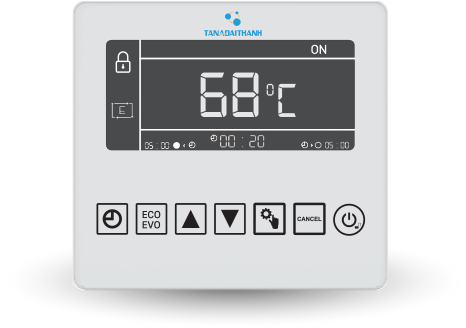
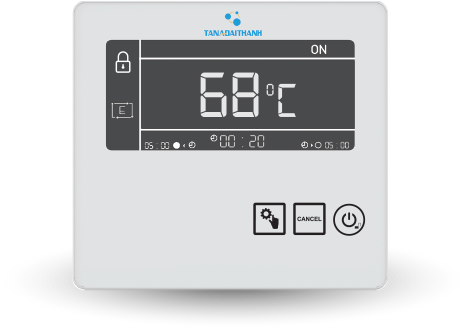
1

Changed region(s): [[0.1803, 0.6098, 0.5408, 0.7317]]

diff --git a/index.html b/index.html
@@ -56,8 +56,9 @@
         <div class="container">
             <div class="row">
                 <div class="col-md-8 mt-5">
-                    <iframe src="https://drive.google.com/file/d/1eCEJB5FRBTQ2DGEPlhd41ZFCHFFKFObW/preview" width="100%"
-                        height="390"></iframe>
+                    <iframe width="100%" height="390" src="https://www.youtube.com/embed/7InDmxiJ9XI" frameborder="0"
+                        allow="accelerometer; autoplay; clipboard-write; encrypted-media; gyroscope; picture-in-picture"
+                        allowfullscreen></iframe>
                 </div>
                 <div class="col-md-4 mt-5">
                     <h2>GIỚI THIỆU CHUNG</h2>
@@ -67,7 +68,7 @@
                     <p> Nhằm củng cố niềm tin của người dùng và không ngừng nâng cao
                         chất lượng sản phẩm, năm 2020, Tập đoàn Tân Á Đại Thành đã cho ra đời dòng sản phẩm thế hệ mới
                         mang tính đột phá về công nghệ với tên gọi Rossi S Series - Bình nước nóng đầu tiên và duy nhất
-                        trên thị trường kết hợp tích hợp bộ điều khiển gắn tường hiện đạihiện đại, với nhiều tính năng
+                        trên thị trường kết hợp tích hợp bộ điều khiển gắn tường hiện đại, với nhiều tính năng
                         ưu việt, mang lại cho người dùng cuộc sống chủ động để tận hưởng từng phút giây. </p>
 
                 </div>
@@ -81,7 +82,12 @@
                     <img src="/image/text-bdk.png" />
                 </div>
                 <div class="col-md-4">
-                    <img src="/image/remote-2.png" class="remote-2" />
+                    <div class="remote-2">
+                        <img src="/image/remote-2.png" />
+                        <img id="remote-1" src="/image/remote-2-1.png" />
+                        <img id="remote-2" src="/image/remote-2-2.png" />
+                        <img id="remote-3" src="/image/remote-2-3.png" />
+                    </div>
                 </div>
             </div>
             <div class="informations">
@@ -124,7 +130,7 @@
                             </div>
                         </div>
                         <div class="info">
-                            <img src="/image/ic_3.png" />
+                            <img src="/image/ic_4.png" />
                             <div>
                                 <h3>Đường xả cặn tiện ích </h3>
                                 <p>Tích hợp với thanh Magie đường kính lớn</h3>
@@ -133,24 +139,24 @@
 
                     </div>
                     <div class="col-md-6">
-                        <div class="info">
-                            <img src="/image/ic_4.png" />
+                        <div class="info info-long">
+                            <img src="/image/ic_3.png" />
                             <div>
                                 <h3>Bộ chống rò điện ELCB</h3>
                                 <p>Tích hợp bộ chống rò điện ELCB tiêu chuẩn châu u đảm bảo an toàn tuyệt đối cho người
                                     sử dụng</h3>
                             </div>
                         </div>
-                        <div class="info">
-                            <img src="/image/ic_5.png" />
+                        <div class="info  info-long">
+                            <img src="/image/ic_6.png" />
                             <div>
                                 <h3>Lớp bảo ôn giữ nhiệt</h3>
                                 <p>Lớp bảo ôn với vật liệu nhập khẩu cao cấp và được phun ở mật độ cao giúp giữ nhiệt
                                     tối ưu</h3>
                             </div>
                         </div>
-                        <div class="info">
-                            <img src="/image/ic_6.png" />
+                        <div class="info  info-long">
+                            <img src="/image/ic_5.png" />
                             <div>
                                 <h3>Van an toàn</h3>
                                 <p>Đảm bảo an toàn theo công nghệ Ý</h3>
@@ -168,9 +174,10 @@
                 <!-- <iframe width="100%" height="600" src="https://www.youtube.com/embed/5afz2COusA0" frameborder="0"
                     allow="accelerometer; autoplay; clipboard-write; encrypted-media; gyroscope; picture-in-picture"
                     allowfullscreen></iframe> -->
-                <iframe src="https://drive.google.com/file/d/1URa_7Hsf4s3NgeEyfwzsyZW0fc8Om_1w/preview" width="100%"
-                    height="600"></iframe>
-                <div style="height: 2px; background: white; margin: 50px 0"></div>
+                <iframe width="100%" height="600" src="https://www.youtube.com/embed/wYv3Ir9DDZ4" frameborder="0"
+                    allow="accelerometer; autoplay; clipboard-write; encrypted-media; gyroscope; picture-in-picture"
+                    allowfullscreen></iframe>
+                <div style="height: 4px; background: white; margin: 50px 0"></div>
             </div>
 
         </section>
@@ -193,7 +200,7 @@
                             <form class="text-center">
                                 <input name="name" placeholder="Họ và tên" class="form-control" />
                                 <input name="phone" placeholder="Số điện thoại" class="form-control" />
-                                <input name="address" placeholder="Địa chỉ" class="form-control" />
+                                <input name="address" placeholder="Địa chỉ nhận quà" class="form-control" />
                                 <img src="image/promo.png" />
                                 <p class="text-center">
                                     <strong>Bình giữ nhiệt cao cấp<br />
@@ -278,25 +285,25 @@
                 </div>
                 <div class="col-md-8 pt-4">
                     <div class="social mb-3">
-                        <a href="https://facebook.com" target="_blank">
+                        <a href="https://www.facebook.com/TapDoanTanADaiThanh" target="_blank">
                             <img src="image/fb.png" />
                         </a>
-                        <a href="https://youtube.com" target="_blank">
+                        <a href="https://www.youtube.com/user/tadtgroup" target="_blank">
                             <img src="image/youtube.png" class="ml-3" />
                         </a>
                     </div>
                     <div class="lienhe">
                         <div>
-                        <a href="telto:18006668">
-                            Tư vấn:
-                            1800 6668
-                        </a>
-                        <a href="telto:18006086">
-                            Hotline: 
-                            1800 6086
-                        </a>
+                            <a href="telto:18006668">
+                                Tư vấn:
+                                1800 6668
+                            </a>
+                            <a href="telto:18006086">
+                                Hotline:
+                                1800 6086
+                            </a>
                         </div>
-                        <a href="http://www.tanadaithanh.com" target="_blank">
+                        <a href="https://tanadaithanh.vn/giai-phap-nuoc/" target="_blank">
                             <img src="image/lienhe-m.png" />
                             www.tanadaithanh.com
                         </a>

diff --git a/style.css b/style.css
@@ -205,7 +205,7 @@ html {
 
 #header .remote:before {
     height: 200px;
-    /* content: ''; */
+    content: '';
     top: -20px;
     width: 400px;
     position: absolute;
@@ -250,10 +250,12 @@ html {
 }
 
 .mpthuy .bg {
+    width: 180%;
+    max-width: 180%;
     position: absolute;
     top: 31%;
     mix-blend-mode: lighten;
-    right: -20%;
+    right: -45%;
 }
 
 #header .touch a {
@@ -503,7 +505,7 @@ html {
 
 #gioithieu h3 {
     font-size: 18px;
-    color: #eee;
+    color: #fff;
     margin-bottom: 30px;
     text-align: justify;
 }
@@ -511,7 +513,7 @@ html {
 #gioithieu p {
     text-align: justify;
     font-size: 14px;
-    color: #eee;
+    color: #fff;
 
 }
 
@@ -530,7 +532,7 @@ html {
 #tintuc h1,
 #quatrian h1 {
     font-weight: 900;
-    color: #eee;
+    color: #fff;
     text-transform: uppercase;
     font-size: 40px;
 
@@ -538,7 +540,7 @@ html {
 
 #quatrian h3 {
     font-weight: 900;
-    color: #eee;
+    color: #fff;
     text-transform: uppercase;
     font-size: 25px;
     text-align: center;
@@ -550,7 +552,7 @@ html {
 #tintuc h4,
 #quatrian h4 {
     font-weight: normal;
-    color: #eee;
+    color: #fff;
     text-transform: uppercase;
     font-size: 24px;
     margin-bottom: 23px;
@@ -728,6 +730,7 @@ html {
     right: 50px;
     display: none;
 }
+
 #thongtin {
     position: relative;
 }
@@ -749,14 +752,20 @@ html {
 }
 
 #thongtin .info p {
-    color: #eee;
+    color: #fff;
     font-size: 16px;
     margin: 0;
-    /* width: 80%; */
+    width: 80%;
 }
 
 #thongtin .info img {
     margin-right: 24px;
+}
+
+
+#thongtin .info.info-long p {
+    margin-right: 24px;
+    width: 100%;
 }
 
 #dialog {
@@ -791,6 +800,30 @@ html {
     margin-bottom: 40px;
 }
 
+#dieukhien .remote-2 {
+    position: relative;
+}
+
+#remote-1 {
+    position: absolute;
+    top: 61.7%;
+    height: 10%;
+    left: 21%;
+}
+
+#remote-2 {
+    position: absolute;
+    left: 37.7%;
+    height: 10.1%;
+    top: 61.5%;
+}
+
+#remote-3 {
+    position: absolute;
+    height: 10.1%;
+    left: 29%;
+    top: 61.7%;
+}
 
 @media only screen and (max-width: 768px) {
     #footer {
